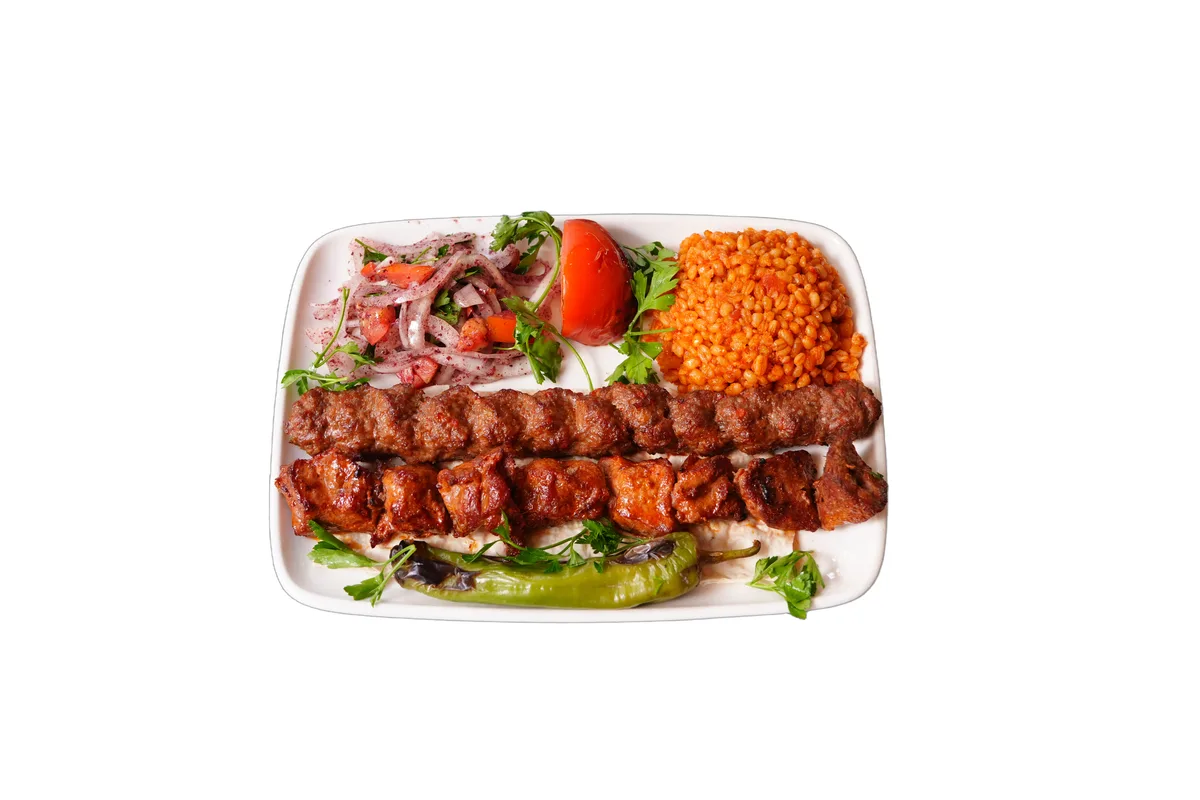
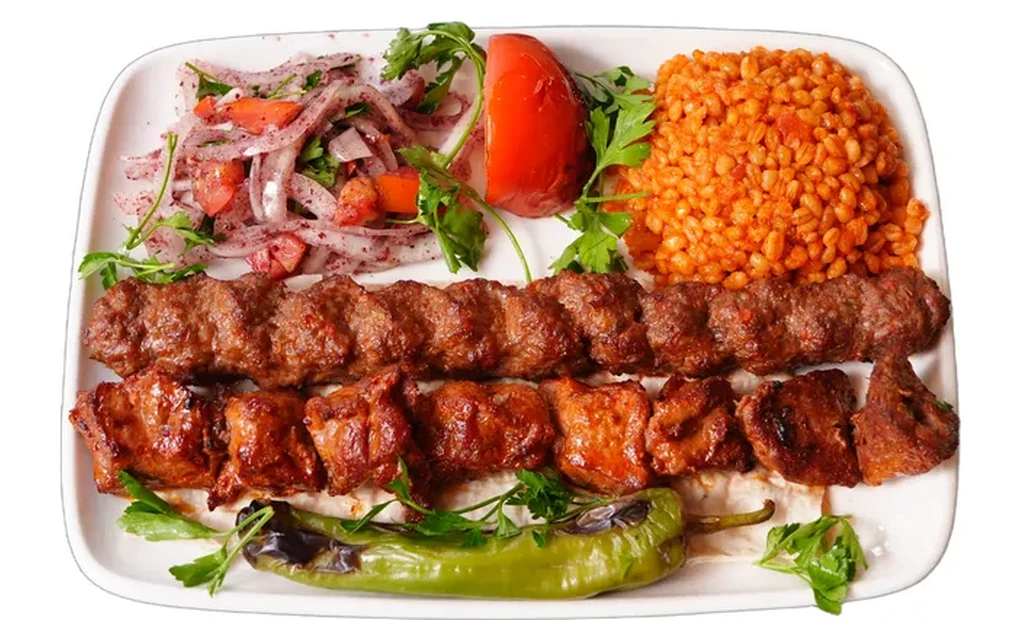
feat(menu): add hunkarbegendi & ispanakli_pide images, move peymacun to lahmacun, crop all dish photos, white bg in cards

diff --git a/src/components/FoodCard.jsx b/src/components/FoodCard.jsx
@@ -111,7 +111,7 @@ export default function FoodCard({ item, index, isVertical = false }) {
         {/* Image Section */}
         {item.image && (
           <div 
-            className={`${isVertical ? "w-full aspect-[4/3] sm:aspect-square" : "w-32 sm:w-40 h-full shrink-0"} relative overflow-hidden bg-[#EDE3CE] z-10 cursor-pointer`}
+            className={`${isVertical ? "w-full aspect-[4/3] sm:aspect-square" : "w-32 sm:w-40 h-full shrink-0"} relative overflow-hidden bg-white z-10 cursor-pointer`}
             onClick={() => setIsModalOpen(true)}
           >
             <div className="absolute inset-0 group-hover:scale-105 transition-transform duration-500">
@@ -244,7 +244,7 @@ export default function FoodCard({ item, index, isVertical = false }) {
 
             {/* Modal Image */}
             {item.image && (
-              <div className="w-full h-56 sm:h-72 shrink-0 relative bg-[#EDE3CE]">
+              <div className="w-full h-56 sm:h-72 shrink-0 relative bg-white">
                 <Image src={item.image} alt={name} fill style={{ objectFit: "contain" }} sizes="(max-width: 768px) 100vw, 400px" />
                 
                 <button

diff --git a/src/data/menuData.js b/src/data/menuData.js
@@ -91,6 +91,7 @@ export const menuData = [
       {
         id: "hunkarbegendi",
         price: 1500.00,
+        image: "/images/hunkarbegendi.webp",
         tags: ["signature"],
         trending: true,
       },
@@ -391,19 +392,13 @@ export const menuData = [
       {
         id: "ispanakli_pide",
         price: 410.00,
+        image: "/images/ispanakli_pide.webp",
         tags: ["vegetarian"],
       },
       {
         id: "patatesli_pide",
         price: 410.00,
         tags: ["vegetarian"],
-      },
-      {
-        id: "peymacun",
-        price: 340.00,
-        image: "/images/peymacun.webp",
-        tags: ["vegetarian"],
-        trending: true,
       },
       {
         id: "beyaz_peynirli_pide",
@@ -453,6 +448,13 @@ export const menuData = [
         id: "ozel_lahmacun",
         image: "/images/ozel_lahmacun.webp",
         tags: ["signature"],
+      },
+      {
+        id: "peymacun",
+        price: 340.00,
+        image: "/images/peymacun.webp",
+        tags: ["vegetarian"],
+        trending: true,
       }
     ]
   },

diff --git a/src/components/DishModal.jsx b/src/components/DishModal.jsx
@@ -171,7 +171,7 @@ export default function DishModal({
 
             {/* Modal Image */}
             {image && (
-              <div className="w-full h-56 sm:h-72 shrink-0 relative bg-[#EDE3CE] group">
+              <div className="w-full h-56 sm:h-72 shrink-0 relative bg-white group">
                 <Image src={image} alt={name} fill style={{ objectFit: "contain" }} sizes="(max-width: 768px) 100vw, 400px" />
                 
                 {/* Zoom Button */}
